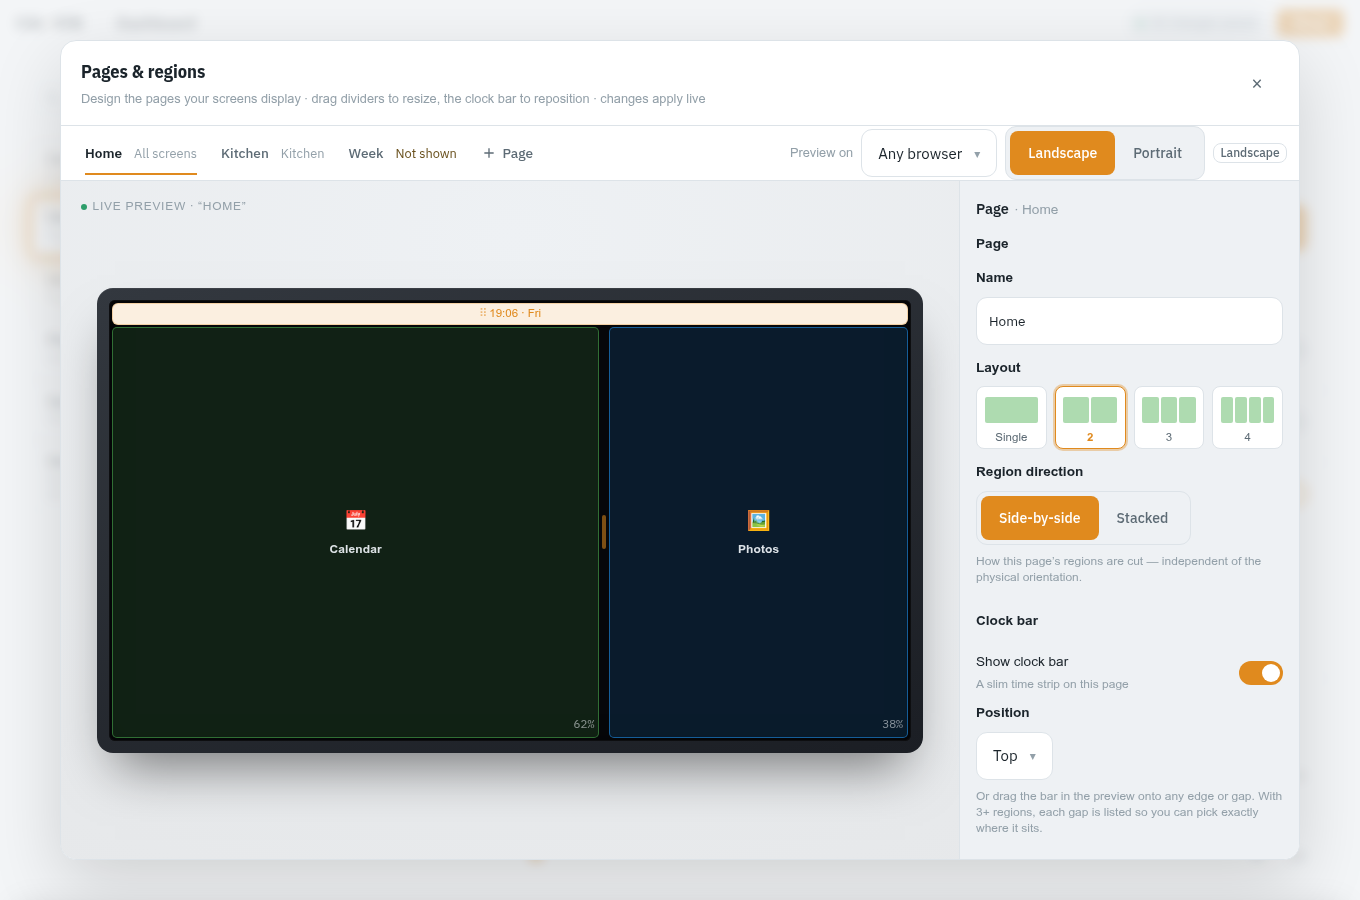
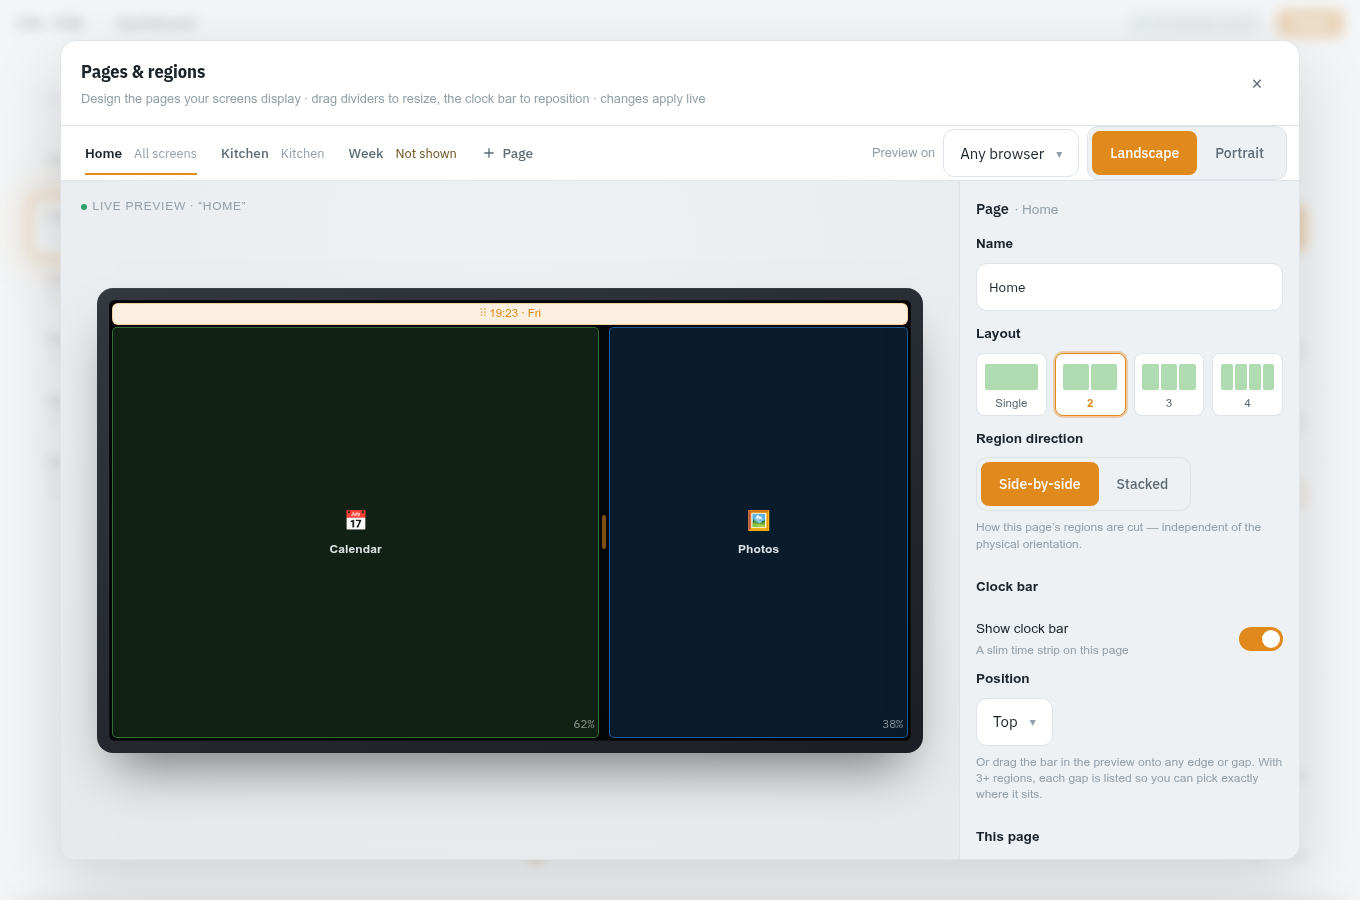
fix(frontend): drop the duplicate Page label and show one orientation indicator (CLV-51)
Design review fixes: the page inspector's group label under the Page · Home
heading is gone, and the editor context strip shows the orientation toggle
for Any browser or the orientation tag for a chosen screen, never both.

diff --git a/frontend/tests/unit/components/settings/ScreenRegionEditor.previewKiosk.spec.js b/frontend/tests/unit/components/settings/ScreenRegionEditor.previewKiosk.spec.js
@@ -87,6 +87,21 @@ describe("ScreenRegionEditor preview on a screen", () => {
     const { w } = await mountEditor({ kiosks: [{ id: "hall", hostname: "pi-hall" }] });
     expect(w.find(".pill__label").text()).toBe("Any browser");
     expect(w.find(".sre-orient-toggle").exists()).toBe(true);
+    expect(w.find('[data-test="orientation-badge"]').exists()).toBe(false);
+  });
+
+  it("shows the orientation toggle for Any browser and the badge for a screen, never both", async () => {
+    const { w } = await mountEditor({ kiosks: [{ id: "hall", hostname: "pi-hall" }] });
+    expect(w.find(".sre-orient-toggle").exists()).toBe(true);
+    expect(w.find('[data-test="orientation-badge"]').exists()).toBe(false);
+
+    await selectPreview(w, "hall");
+    expect(w.find(".sre-orient-toggle").exists()).toBe(false);
+    expect(w.find('[data-test="orientation-badge"]').exists()).toBe(true);
+
+    await selectPreview(w, "__global");
+    expect(w.find(".sre-orient-toggle").exists()).toBe(true);
+    expect(w.find('[data-test="orientation-badge"]').exists()).toBe(false);
   });
 
   it("names a screen by displayName, then hostname, then id", async () => {
@@ -149,7 +164,8 @@ describe("ScreenRegionEditor preview on a screen", () => {
     const portrait = w.findAll(".sre-orient-toggle .seg__btn").find(b => b.text() === "Portrait");
     await portrait.trigger("click");
     expect(device(w).classes()).toContain("portrait");
-    expect(badge(w)).toBe("Portrait");
+    // The toggle owns the Any-browser state; the badge is only for a screen.
+    expect(w.find('[data-test="orientation-badge"]').exists()).toBe(false);
     expect(w.emitted("update:config")).toBeUndefined();
   });
 });

diff --git a/frontend/tests/unit/components/settings/ScreenRegionEditor.responsive.spec.js b/frontend/tests/unit/components/settings/ScreenRegionEditor.responsive.spec.js
@@ -152,7 +152,10 @@ describe("ScreenRegionEditor size classes", () => {
     await resize(w, ".sre-modal", 800, 480);
     const caption = w.find('[data-test="orientation-caption"]');
     expect(caption.exists()).toBe(true);
-    expect(caption.text()).toBe(w.find('[data-test="orientation-badge"]').text());
+    // Any browser owns its orientation through the toggle, so the caption
+    // carries the value where the badge would otherwise sit.
+    expect(caption.text()).toBe("Landscape");
+    expect(w.find('[data-test="orientation-badge"]').exists()).toBe(false);
   });
 });
 

diff --git a/frontend/tests/unit/components/settings/ScreenRegionEditor.tabs.spec.js b/frontend/tests/unit/components/settings/ScreenRegionEditor.tabs.spec.js
@@ -155,6 +155,12 @@ describe("ScreenRegionEditor inspector headings", () => {
     expect(w.find(".ins-mode .ins-sub").text()).toBe("· Home");
   });
 
+  it("does not repeat Page as a group label under the heading", async () => {
+    const w = await mountEditor();
+    const groupLabels = w.findAll(".ins-h").map(n => n.text());
+    expect(groupLabels).not.toContain("Page");
+  });
+
   it("heads the region inspector Region · in Home", async () => {
     const w = await mountEditor();
     const node = w.findAllComponents({ name: "RegionNode" })[0];

diff --git a/frontend/src/components/settings/shared/ScreenRegionEditor.vue b/frontend/src/components/settings/shared/ScreenRegionEditor.vue
@@ -87,7 +87,13 @@
               aria-label="Preview orientation"
               @update:model-value="setAnyBrowserOrientation"
             />
-            <Tag class="sre-orient-badge" data-test="orientation-badge">{{ orientationBadge }}</Tag>
+            <Tag
+              v-if="previewScreenId !== ANY_BROWSER"
+              class="sre-orient-badge"
+              data-test="orientation-badge"
+            >
+              {{ orientationBadge }}
+            </Tag>
           </div>
         </div>
 

diff --git a/frontend/src/components/settings/shared/regions/ScreenInspector.vue b/frontend/src/components/settings/shared/regions/ScreenInspector.vue
@@ -6,7 +6,6 @@
     </div>
 
     <section class="ins-group">
-      <h3 class="ins-h">Page</h3>
       <label class="ins-field">
         <span class="ins-label">Name</span>
         <input
